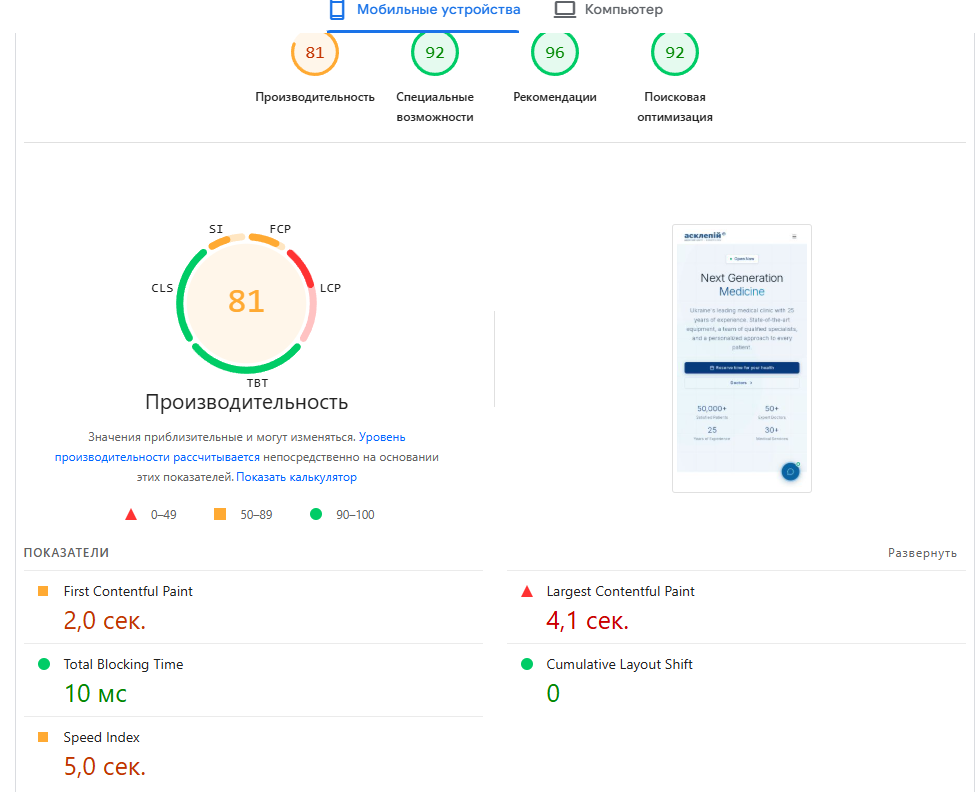
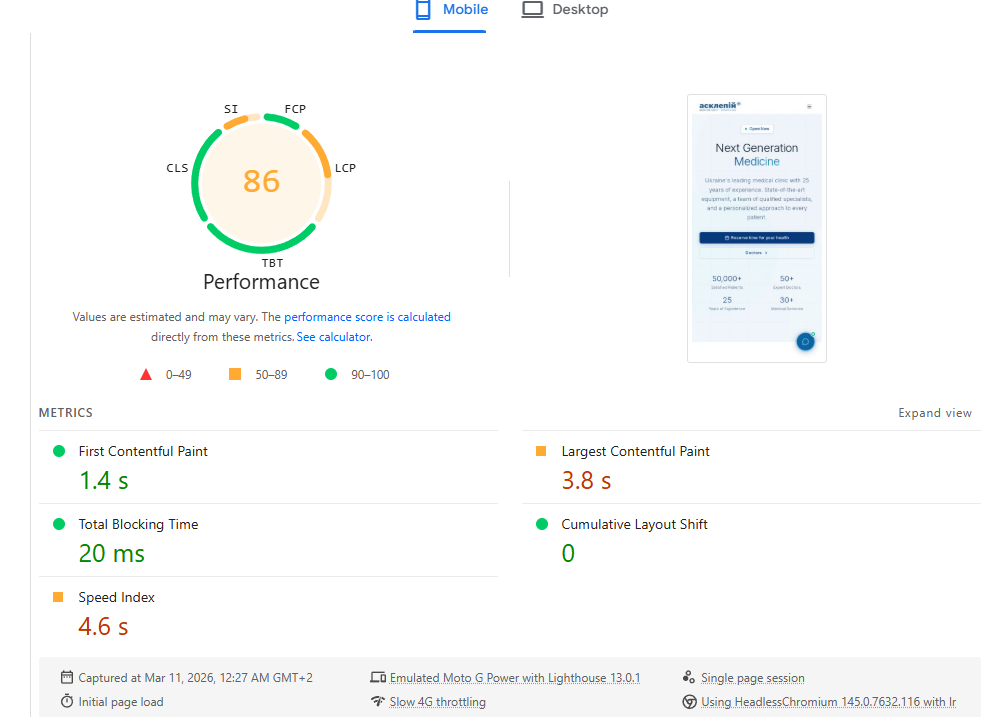
100% pagespeed

diff --git a/src/app/[locale]/page.tsx b/src/app/[locale]/page.tsx
@@ -1,12 +1,14 @@
 import type { Metadata } from "next";
 import { getTranslations } from "next-intl/server";
+import dynamic from "next/dynamic";
 import { HeroSection } from "@/components/sections/HeroSection";
-import { ServicesSection } from "@/components/sections/ServicesSection";
-import { DoctorsSection } from "@/components/sections/DoctorsSection";
-import { BookingSection } from "@/components/sections/BookingSection";
-import { NewsSection } from "@/components/sections/NewsSection";
-import { WhySection } from "@/components/sections/WhySection";
 import { JsonLd } from "@/components/seo/JsonLd";
+
+const ServicesSection = dynamic(() => import("@/components/sections/ServicesSection").then(m => ({ default: m.ServicesSection })));
+const WhySection = dynamic(() => import("@/components/sections/WhySection").then(m => ({ default: m.WhySection })));
+const DoctorsSection = dynamic(() => import("@/components/sections/DoctorsSection").then(m => ({ default: m.DoctorsSection })));
+const BookingSection = dynamic(() => import("@/components/sections/BookingSection").then(m => ({ default: m.BookingSection })));
+const NewsSection = dynamic(() => import("@/components/sections/NewsSection").then(m => ({ default: m.NewsSection })));
 
 export async function generateMetadata({
   params,

diff --git a/src/app/layout.tsx b/src/app/layout.tsx
@@ -5,7 +5,7 @@ import "./globals.css";
 
 const inter = Inter({
   subsets: ["latin", "cyrillic"],
-  weight: ["300", "400", "500", "600"],
+  weight: ["300", "400", "500"],
   display: "swap",
   variable: "--font-inter",
 });
@@ -48,10 +48,7 @@ export default async function RootLayout({ children }: { children: React.ReactNo
   return (
     <html lang={locale} suppressHydrationWarning>
       <head>
-        <link rel="preconnect" href="https://fonts.googleapis.com" />
         <link rel="preconnect" href="https://fonts.gstatic.com" crossOrigin="anonymous" />
-        <link rel="preconnect" href="https://images.unsplash.com" />
-        <link rel="dns-prefetch" href="https://images.unsplash.com" />
       </head>
       <body className={`${inter.variable} font-sans antialiased bg-white text-[#0C1929]`}>{children}</body>
     </html>

diff --git a/next.config.ts b/next.config.ts
@@ -17,6 +17,7 @@ const nextConfig: NextConfig = {
   },
   experimental: {
     optimizePackageImports: ["framer-motion", "lucide-react"],
+    optimizeCss: true,
   },
   compiler: {
     removeConsole: process.env.NODE_ENV === "production",
